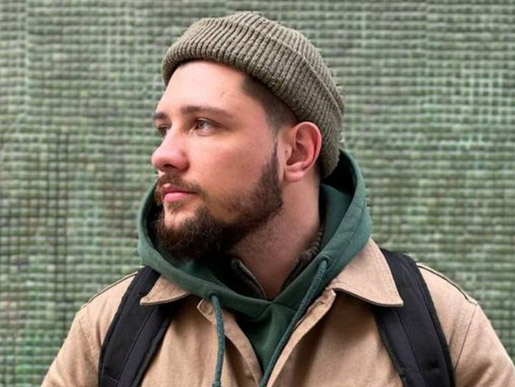
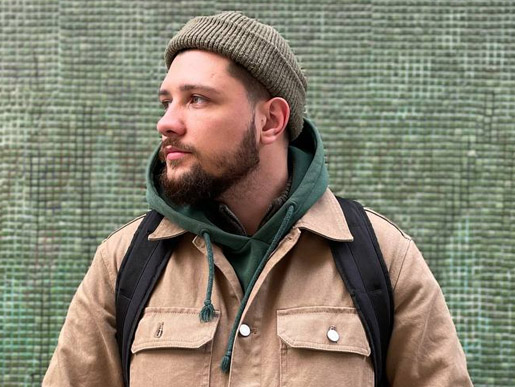
add link

diff --git a/index.html b/index.html
@@ -68,7 +68,7 @@
           <p class="hero-v24-description">Целый день про технологии, людей и идеи, которые двигают нас вперёд.</p>
           <div class="hero-v24-actions">
             <a class="hero-v24-buy" href="#tickets">Купить билет <span aria-hidden="true">↗</span></a>
-            <a class="hero-v24-help" target="_blank" href="https://t.tb.ru/pm_short/32fh0rVqQON">Поддержать нас <span aria-hidden="true">→</span></a>
+            <a class="hero-v24-help" target="_blank" href="https://pay.cloudtips.ru/p/c174f8c7">Поддержать нас <span aria-hidden="true">→</span></a>
           </div>
           <div class="hero-v24-info" aria-label="Дата, время и место проведения">
             <div><span class="hero-v24-info-label">Когда</span><strong>21 ноября 2026</strong></div>
@@ -155,7 +155,7 @@
           <div class="col-sm-6 col-md-4 speaker-item" data-track="soft">
             <article data-toggle="modal" data-target="#talkModal" tabindex="0" role="button" data-speaker="Максим Елисеев" data-role="UI/UX · Summit Group" data-city="Астрахань" data-talk="От хаоса к порядку: как задачи находят своё место в бэклоге" data-track-name="Soft Skills" data-description="О том, как превращать поток входящих запросов в управляемый бэклог и принимать понятные продуктовые и командные решения." class="speaker-card accent-cream">
               <div class="speaker-photo"><img src="img/speakers/eliseev.jpg" alt="Максим Елисеев"></div>
-              <span class="track track-soft">Soft Skills</span><h3>Максим Елисеев</h3><p>UI/UX · Summit Group</p><small>Астрахань</small>
+              <span class="track track-soft">Soft Skills</span><h3>Максим Елисеев</h3><p>UX/UI-дизайнер · Summit Group</p><small>Астрахань</small>
             </article>
           </div>
           <div class="col-sm-6 col-md-4 speaker-item" data-track="hard">
